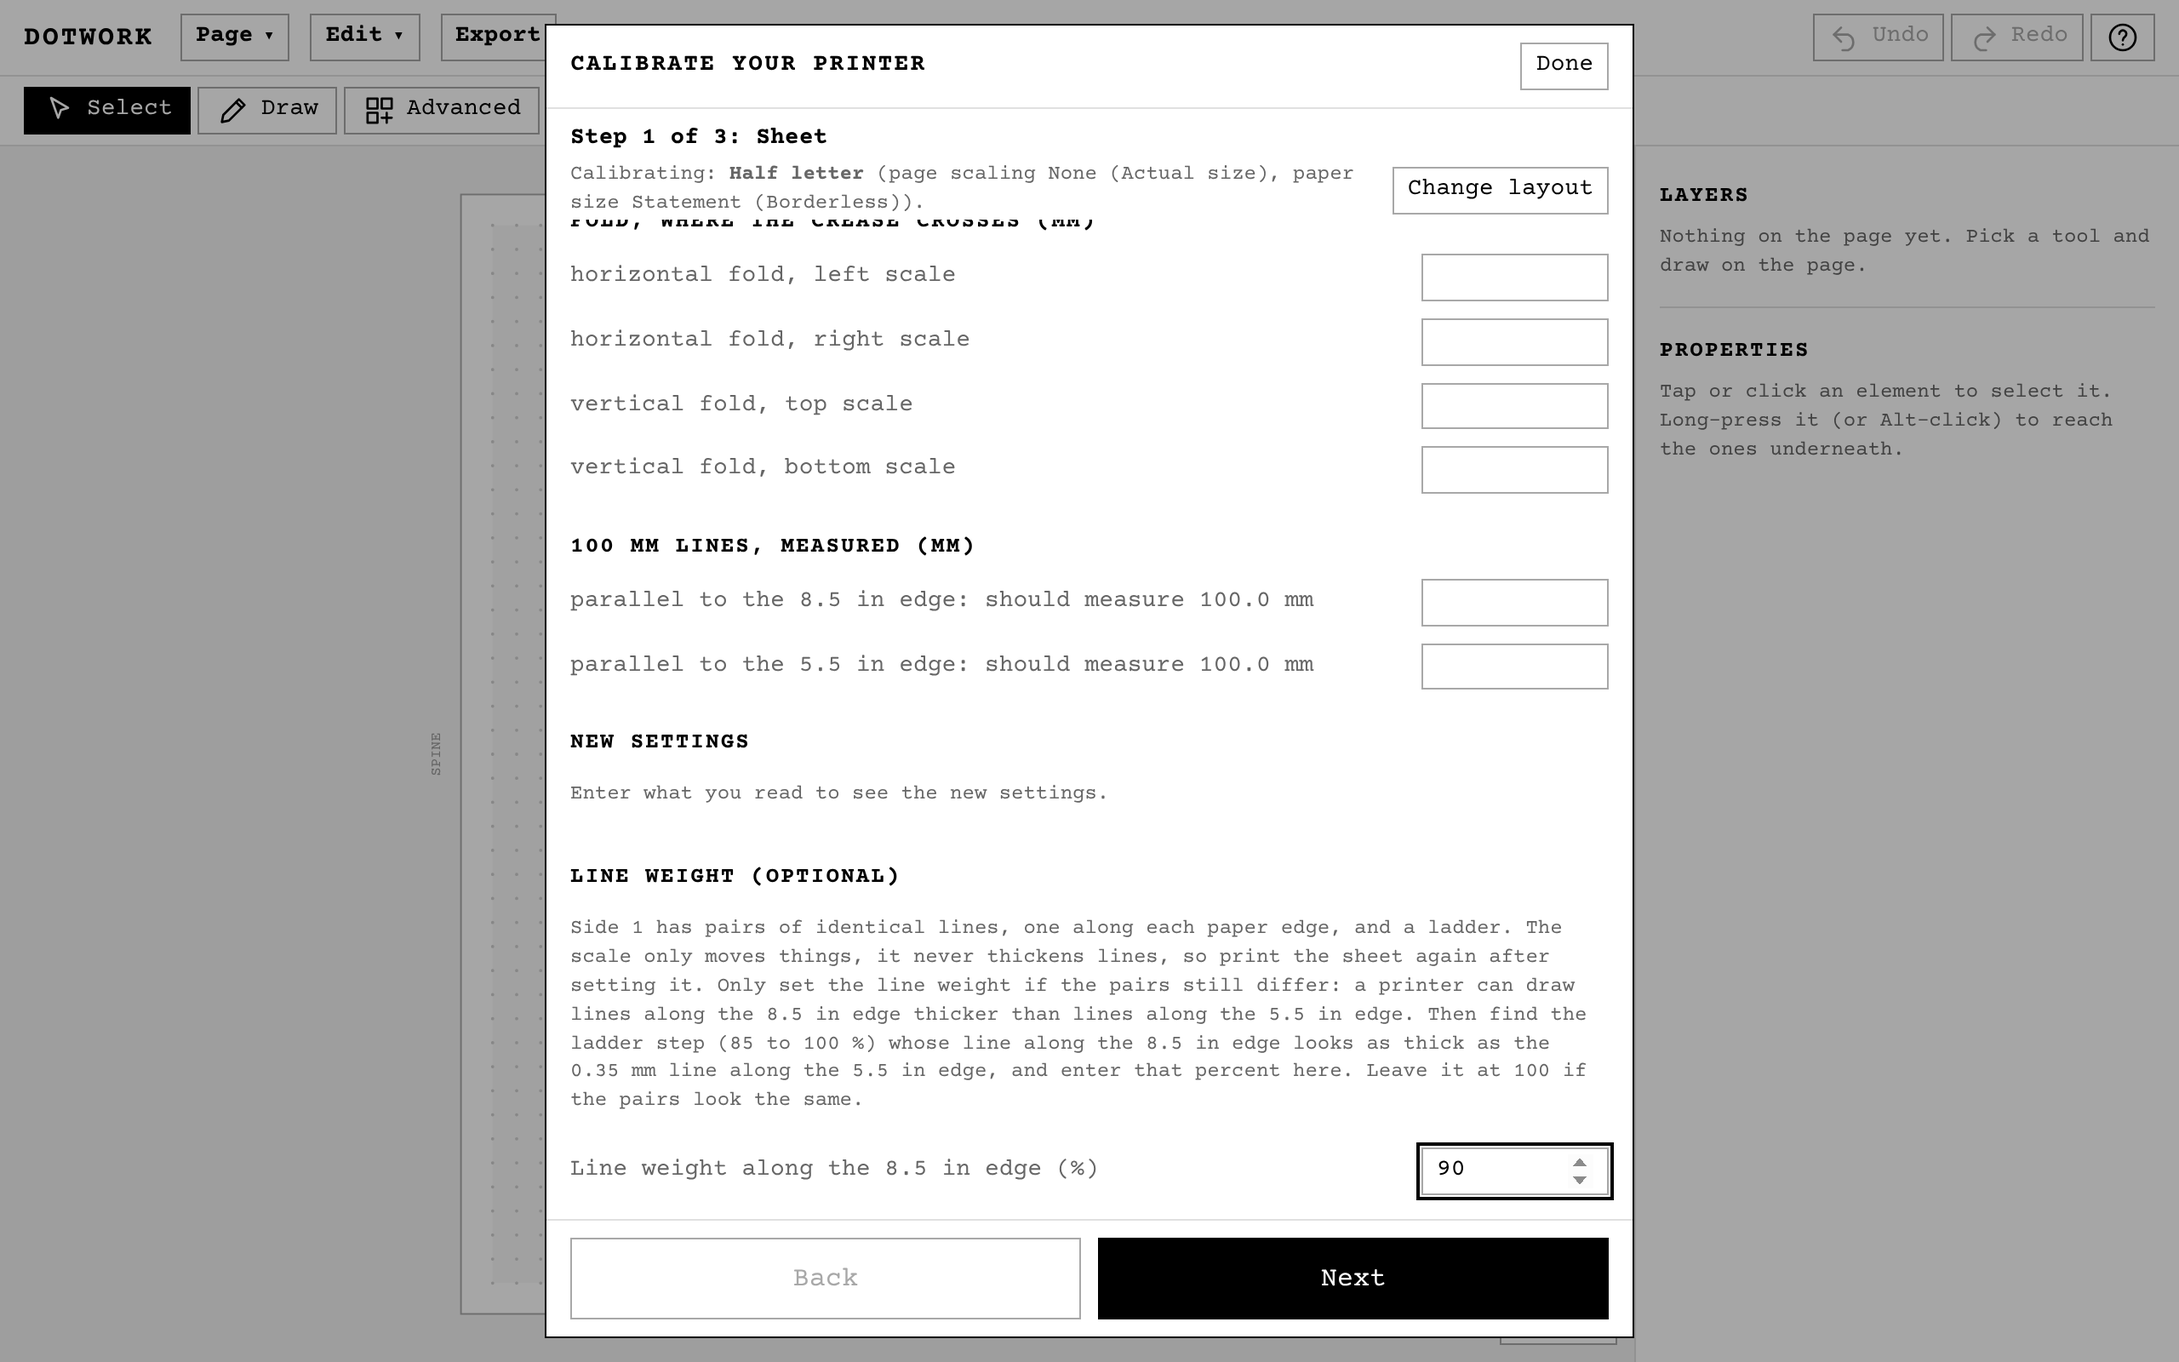
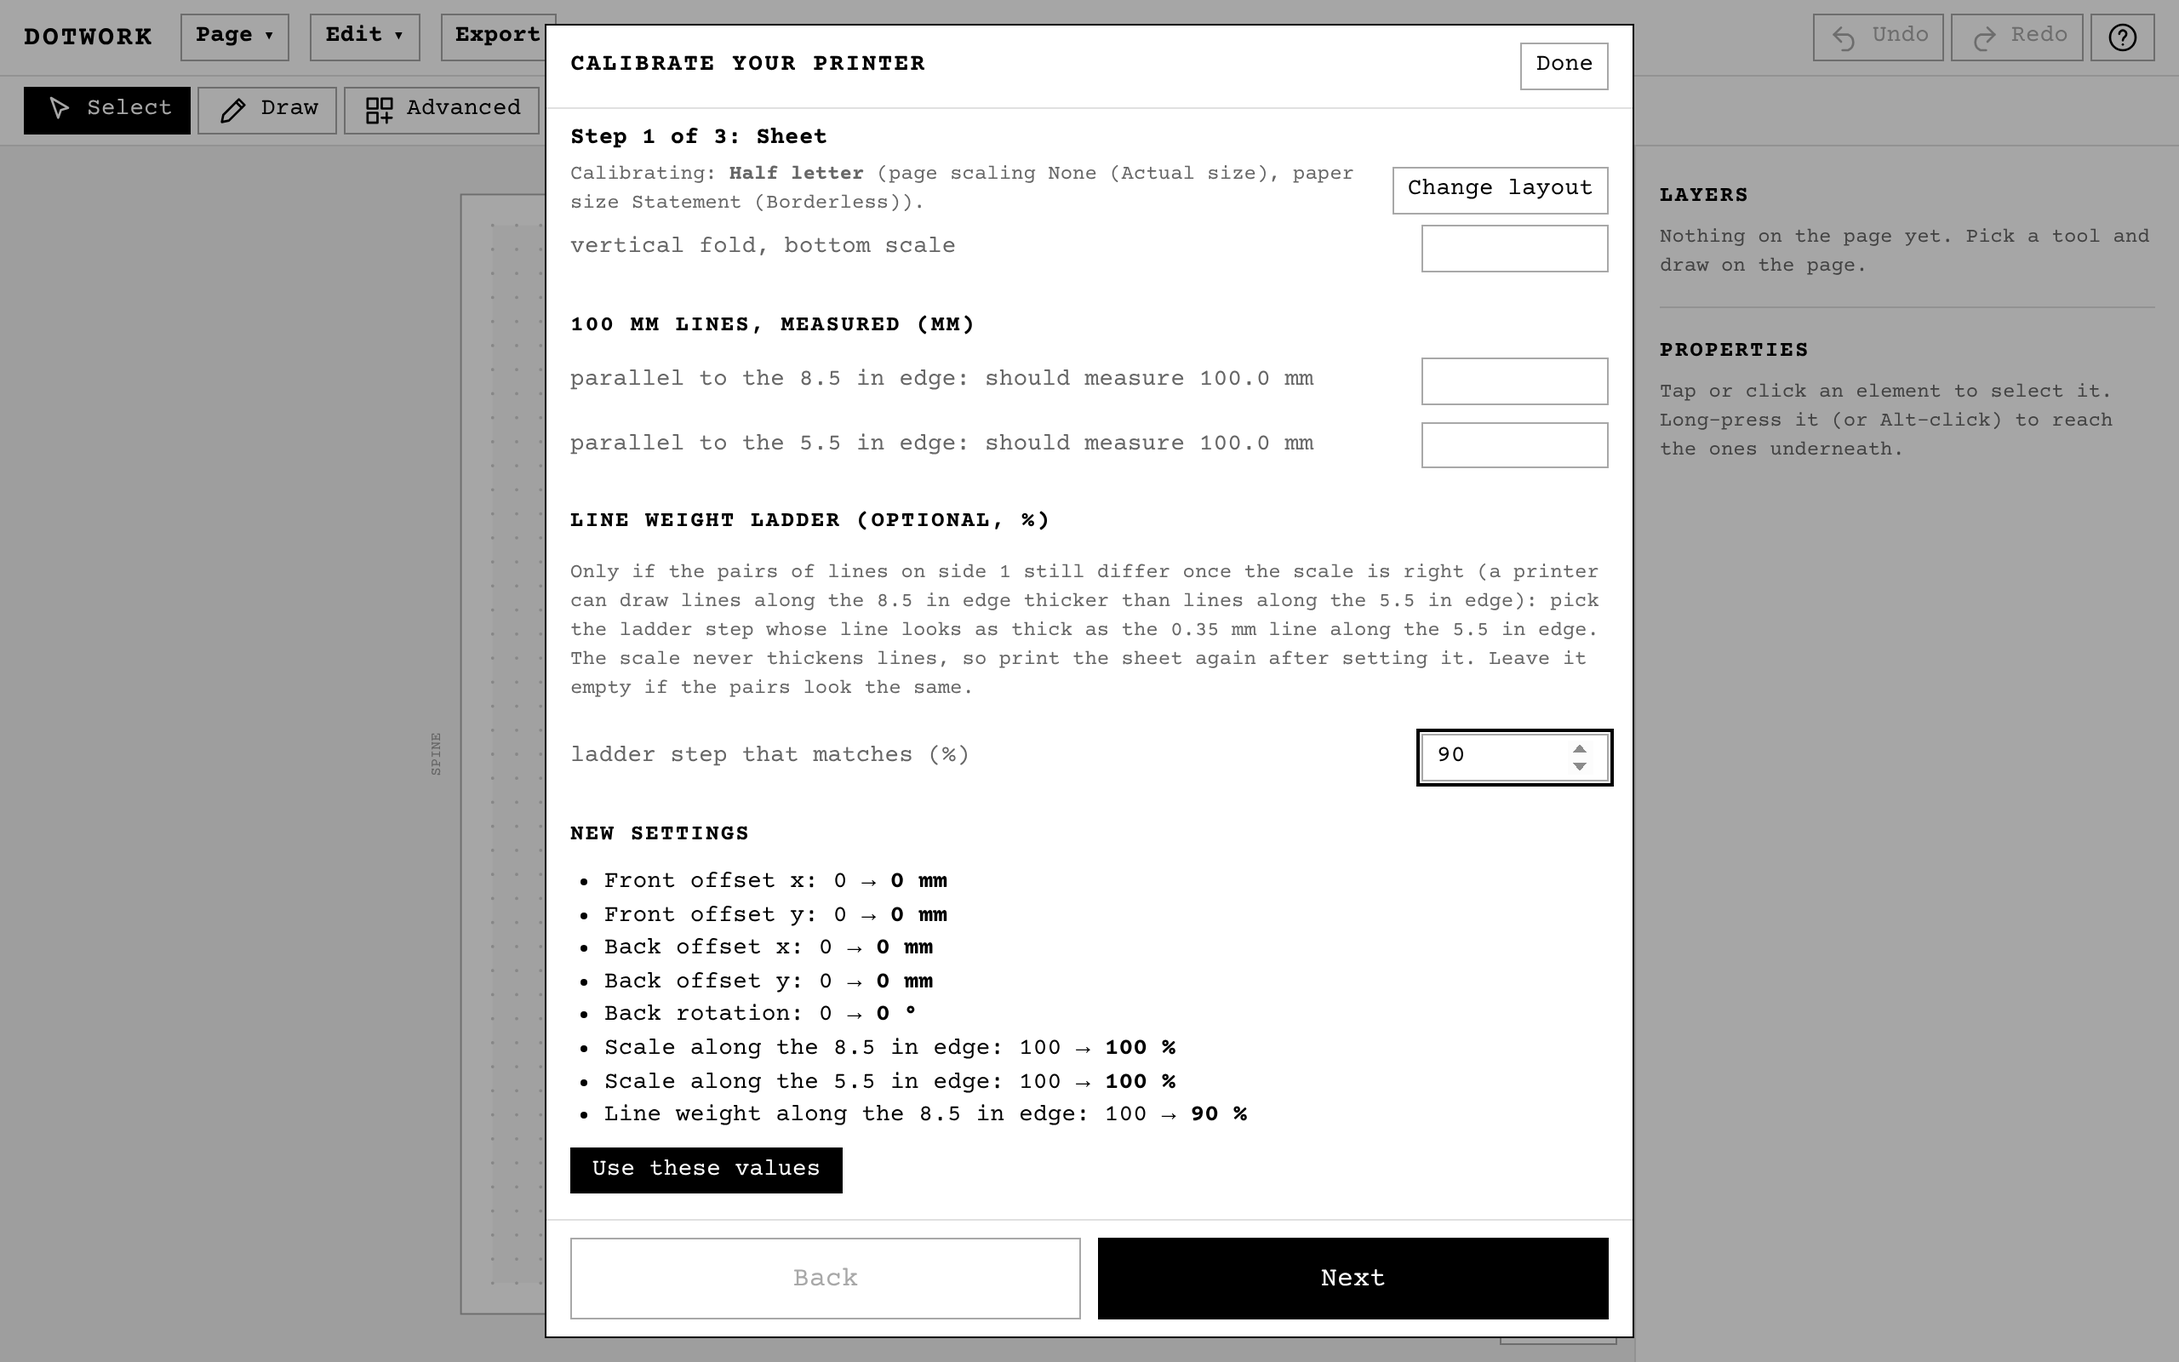
Line weight is a Calibrate reading: ladder step box, shown in New settings with the Use button
Claude-Session: https://claude.ai/code/session_01UkUH4WM8r61MiLMkZLeq93

diff --git a/src/calibrate.ts b/src/calibrate.ts
@@ -27,12 +27,12 @@ const STEPS = ['Sheet', 'Creep and cover', 'Check'] as const;
 /** What the sheet step changes, by name. */
 const RESULTS: [keyof LayoutProfile, string, string][] = [
   ['front_offset_x_mm', 'Front offset x', 'mm'], ['front_offset_y_mm', 'Front offset y', 'mm'], ['back_offset_x_mm', 'Back offset x', 'mm'], ['back_offset_y_mm', 'Back offset y', 'mm'],
-  ['back_rotation_deg', 'Back rotation', '°'], ['scale_x_pct', 'Scale along the first edge', '%'], ['scale_y_pct', 'Scale along the second edge', '%'],
+  ['back_rotation_deg', 'Back rotation', '°'], ['scale_x_pct', 'Scale along the first edge', '%'], ['scale_y_pct', 'Scale along the second edge', '%'], ['line_weight_x_pct', 'Line weight along the first edge', '%'],
 ];
 
 /** The sheet step's readings, as typed. */
 type SheetFields = { [K in keyof SheetReadings]: string };
-const EMPTY_SHEET: SheetFields = { topX: '', bottomX: '', leftY: '', rightY: '', hFoldLeft: '', hFoldRight: '', vFoldTop: '', vFoldBottom: '', longX: '', longY: '' };
+const EMPTY_SHEET: SheetFields = { topX: '', bottomX: '', leftY: '', rightY: '', hFoldLeft: '', hFoldRight: '', vFoldTop: '', vFoldBottom: '', longX: '', longY: '', ladder: '' };
 
 /** The page count, creep, shifts and target a creep test was printed with, as typed. */
 type TestPrinted = { pages: string; creep: string; shift: string; coverShift: string; target: string };
@@ -208,7 +208,7 @@ export class CalibrateDialog {
       const next = sheetResult(layout, printed, r);
       const edges = EDGE_NAMES[layout];
       const rows = RESULTS.map(([k, name, unit]) => {
-        const label = k === 'scale_x_pct' ? `Scale along the ${edges.x} edge` : k === 'scale_y_pct' ? `Scale along the ${edges.y} edge` : name;
+        const label = k === 'line_weight_x_pct' ? `Line weight along the ${edges.x} edge` : k === 'scale_x_pct' ? `Scale along the ${edges.x} edge` : k === 'scale_y_pct' ? `Scale along the ${edges.y} edge` : name;
         const show = k === 'back_rotation_deg' ? (v: number) => `${Math.round(v * 1000) / 1000}` : mm; // a degree is fine, so the rotation shows its third decimal
         return h('li', {}, `${label}: ${show(now[k])} → `, h('strong', {}, `${show(next[k])} ${unit}`));
       });
@@ -240,11 +240,11 @@ export class CalibrateDialog {
       twist,
       h('h3', {}, '100 mm lines, measured (mm)'),
       r('longX', cap.longX, 'calibrate-read-line-x'), r('longY', cap.longY, 'calibrate-read-line-y'),
+      h('h3', {}, 'Line weight ladder (optional, %)'),
+      h('p', { class: 'hint' }, `Only if the pairs of lines on side 1 still differ once the scale is right (a printer can draw lines along the ${EDGE_NAMES[layout].x} edge thicker than lines along the ${EDGE_NAMES[layout].y} edge): pick the ladder step whose line looks as thick as the 0.35 mm line along the ${EDGE_NAMES[layout].y} edge. The scale never thickens lines, so print the sheet again after setting it. Leave it empty if the pairs look the same.`),
+      r('ladder', `ladder step that matches (%)`, 'calibrate-read-ladder'),
       h('h3', {}, 'New settings'),
       result,
-      h('h3', {}, 'Line weight (optional)'),
-      h('p', { class: 'hint' }, `Side 1 has pairs of identical lines, one along each paper edge, and a ladder. The scale only moves things, it never thickens lines, so print the sheet again after setting it. Only set the line weight if the pairs still differ: a printer can draw lines along the ${EDGE_NAMES[layout].x} edge thicker than lines along the ${EDGE_NAMES[layout].y} edge. Then find the ladder step (85 to 100 %) whose line along the ${EDGE_NAMES[layout].x} edge looks as thick as the 0.35 mm line along the ${EDGE_NAMES[layout].y} edge, and enter that percent here. Leave it at 100 if the pairs look the same.`),
-      this.field('line_weight_x_pct'),
     ];
   }
 

diff --git a/tests/e2e/calibrate.e2e.ts b/tests/e2e/calibrate.e2e.ts
@@ -335,22 +335,24 @@ for (const device of ['phone', 'tablet', 'desktop'] as const) {
       expect(await missingHelp(app)).toEqual([]);
     });
 
-    it('explains the line weight, and keeps it as the printer’s setting of the selected layout, never in the book', async () => {
+    it('takes the ladder step as a reading, shows the line weight in New settings, and keeps it as the selected layout’s printer setting, never in the book', async () => {
       const app = await open(env, device);
       await startFlat(app);
       await openCalibrate(app);
       const text = await app.page.locator('dialog.calibrate').innerText();
-      expect(text).toMatch(/Only set the line weight if the pairs still differ/);
+      expect(text).toMatch(/pairs of lines on side 1 still differ/);
       expect(text).toMatch(/never thickens lines/);
-      await app.page.locator('dialog.calibrate [data-key="book-line-weight"]').scrollIntoViewIfNeeded();
-      expect(await app.page.locator('dialog.calibrate [data-key="book-line-weight"]').inputValue()).toBe('100');
-      await set(app, 'calibrate', 'book-line-weight', '90');
+      await set(app, 'calibrate', 'calibrate-read-ladder', '90');
+      const result = await app.page.locator('[data-key="calibrate-sheet-result"]').innerText();
+      expect(result).toContain('Line weight along the 8.5 in edge: 100 → 90 %');
+      await app.page.locator('[data-key="calibrate-use-sheet"]').scrollIntoViewIfNeeded();
+      await shot(app, `${device}-calibrate-line-weight`);
+      await hit(app, 'dialog.calibrate [data-key="calibrate-use-sheet"]');
       expect((await profile(app)).layouts.half_letter.line_weight_x_pct).toBe(90);
       expect((await profile(app)).layouts.letter_two_up.line_weight_x_pct ?? 100).toBe(100);
-      await shot(app, `${device}-calibrate-line-weight`);
-      await set(app, 'calibrate', 'book-line-weight', '500'); // brought back inside its limits
-      expect((await profile(app)).layouts.half_letter.line_weight_x_pct).toBe(120);
       expect(await bookDraft(app)).toBe(BOOK);
+      await set(app, 'calibrate', 'calibrate-read-ladder', '500'); // brought back inside its limits
+      expect(await app.page.locator('[data-key="calibrate-sheet-result"]').innerText()).toContain('→ 120 %');
       if (app.touch) expect(await small(app)).toEqual([]);
       expect(await noOverflow(app)).toBe(true);
       expect(await missingHelp(app)).toEqual([]);

diff --git a/src/help.ts b/src/help.ts
@@ -249,6 +249,7 @@ export const HELP: Record<string, HelpEntry> = {
   'calibrate-read-line-y': e('100 mm line parallel to the other edge (mm)', 'The length you measured with a ruler for the 100 mm line parallel to the 5.5 in edge (the 11 in edge on a two-up sheet), tick to tick. The scale along that edge is set from it.', 'Tap, type the number, then tap Done.', 'Click and type the number.'),
   'book-line-weight': e('Line weight along the 8.5 in edge', 'How thick lines along the 8.5 in edge print, as a percent of their drawn width (80 to 120; dots and letters never change). Leave it at 100 unless the calibration sheet’s line pairs still differ: then enter the matching ladder step.', 'Tap, type a number, then tap Done.', 'Click and type a number, then press Enter.'),
   'calibrate-fold-twist': e('Twist against the paper', 'The difference between the two readings of a fold pair, and the distance between their scales: how far the print is turned against the paper’s own fold. Information only; no setting changes.', 'Shown when both readings of a pair are typed.', 'Shown when both readings of a pair are typed.'),
+  'calibrate-read-ladder': e('Ladder step that matches (%)', 'The percent (85, 90, 95 or 100) of the ladder line along the 8.5 in edge that looks as thick as the 0.35 mm line along the other edge. It becomes the line weight in New settings; leave it empty if the pairs look the same.', 'Tap, type the number, then tap Done.', 'Click and type the number.'),
   'book-back-rotation': e('Back rotation', 'Turns everything printed second about the sheet’s centre, in degrees from −1.5 to 1.5: + is counter-clockwise as seen on the back. Calibrate finds it from the see-through readings. It belongs to the sheet layout chosen above.', 'Tap, type a number, then tap Done.', 'Click and type a number, then press Enter.'),
   'calibrate-open': e('Calibrate your printer', 'Opens the Calibrate wizard: three steps and test sheets that find your printer’s offsets, rotation, scale, creep, fore-edge shifts and tones for the sheet layout, and keep them as your printer’s settings.', 'Tap to open the wizard. Done brings you back here.', 'Click to open the wizard. Done brings you back here.'),
   'calibrate-back': e('Back', 'Goes to the step before this one in the Calibrate wizard. What you typed is kept.', 'Tap to go back a step.', 'Click to go back a step.'),

diff --git a/src/book/alignment.ts b/src/book/alignment.ts
@@ -106,8 +106,10 @@ export interface SheetReadings {
   hFoldLeft: number | null; hFoldRight: number | null; vFoldTop: number | null; vFoldBottom: number | null;
   /** The two 100 mm lines, measured with a ruler, mm: parallel to the 8.5 in edge, and to the other. */
   longX: number | null; longY: number | null;
+  /** The ladder step (percent of 0.35 mm) whose line along the 8.5 in edge looks as thick as the 0.35 mm line along the other edge. The ladder is exempt from the line weight setting, so this is the setting itself. */
+  ladder: number | null;
 }
-export const NO_READINGS: SheetReadings = { topX: null, bottomX: null, leftY: null, rightY: null, hFoldLeft: null, hFoldRight: null, vFoldTop: null, vFoldBottom: null, longX: null, longY: null };
+export const NO_READINGS: SheetReadings = { topX: null, bottomX: null, leftY: null, rightY: null, hFoldLeft: null, hFoldRight: null, vFoldTop: null, vFoldBottom: null, longX: null, longY: null, ladder: null };
 
 const known = (v: number | null): v is number => v !== null;
 const mean = (v: number[]) => v.reduce((a, b) => a + b, 0) / v.length;
@@ -190,5 +192,6 @@ export function sheetResult(layout: SheetLayout, printed: LayoutProfile, r: Shee
   if (rb.y !== null && dy !== null) next.front_offset_y_mm = within(round(printed.front_offset_y_mm - dy - rb.y), 'front_offset_y_mm');
   next.scale_x_pct = scaleFromReading(printed.scale_x_pct, printed.scale_x_pct, r.longX, LINE_MM);
   next.scale_y_pct = scaleFromReading(printed.scale_y_pct, printed.scale_y_pct, r.longY, LINE_MM);
+  if (known(r.ladder)) next.line_weight_x_pct = within(round(r.ladder), 'line_weight_x_pct');
   return next;
 }

diff --git a/tests/alignment.test.ts b/tests/alignment.test.ts
@@ -179,3 +179,12 @@ describe('the twist against the paper', () => {
     expect(foldTwist(NO_READINGS)).toEqual({ horizontal: null, vertical: null });
   });
 });
+
+describe('the line weight from the ladder', () => {
+  it('is the picked step itself, kept within 80 to 120, and unchanged when no step was picked', () => {
+    const printed = { ...ZERO, line_weight_x_pct: 100 };
+    expect(sheetResult('half_letter', printed, { ...NO_READINGS, ladder: 90 }).line_weight_x_pct).toBe(90);
+    expect(sheetResult('half_letter', printed, { ...NO_READINGS, ladder: 500 }).line_weight_x_pct).toBe(120);
+    expect(sheetResult('half_letter', { ...printed, line_weight_x_pct: 95 }, NO_READINGS).line_weight_x_pct).toBe(95);
+  });
+});

diff --git a/docs/book-format.md b/docs/book-format.md
@@ -194,7 +194,7 @@ The Calibrate wizard (Export, PDF tab, **Calibrate your printer…**) builds the
 
 **The calibration sheet.** The layout is the same for both sheet layouts and uses the whole paper: *W* × *H* is 215.9 × 139.7 mm for half letter and 215.9 × 279.4 mm for two-up, and *m* = 8.0 mm. Five marks: top (*W*/2, *m*), bottom (*W*/2, *H* − *m*), left (*m*, *H*/2), right (*W* − *m*, *H*/2) and the centre (*W*/2, *H*/2). Everything stays at least 3 mm from every paper edge, so it prints without borderless.
 
-- *Side 1 (printed first)*: a fine **+** (0.2 mm lines, 6 mm across) at all five marks, and in the space at least 10 mm from every mark the gray ramp from 0 to 100% in 5% steps (each with text in that gray), the three shade tones and the gray text as they print now, small and large dots, hair, thin and thick ruled lines, a hairline weight strip (0.05 to 0.30 mm), **line weight by direction** and the settings footer. Line weight by direction is a block on the left page's right-hand side: *pairs* of identical lines at 0.12, 0.25 and 0.35 mm, each pair one line along the 8.5 in edge (11 mm) and one along the other edge (8 mm), labelled with the width and the edge names (a printer that draws one direction thicker shows as a difference within a pair); and a *ladder* of four lines along the 8.5 in edge at 85, 90, 95 and 100 % of 0.35 mm, labelled, beside a 0.35 mm line along the other edge. The pairs are drawn under the line weight setting (they show what it does); the ladder is exempt from it, so its steps are the same whatever the setting is. To set `line_weight_x_pct`: only if the pairs still differ after the scale is right, pick the ladder step that looks as thick as the 0.35 mm line along the other edge and enter its percent. No scales. The marks are symmetric about the sheet's centre, so each shows through the paper (the sheet turned over, left and right swapped) at the place of its mirror image.
+- *Side 1 (printed first)*: a fine **+** (0.2 mm lines, 6 mm across) at all five marks, and in the space at least 10 mm from every mark the gray ramp from 0 to 100% in 5% steps (each with text in that gray), the three shade tones and the gray text as they print now, small and large dots, hair, thin and thick ruled lines, a hairline weight strip (0.05 to 0.30 mm), **line weight by direction** and the settings footer. Line weight by direction is a block on the left page's right-hand side: *pairs* of identical lines at 0.12, 0.25 and 0.35 mm, each pair one line along the 8.5 in edge (11 mm) and one along the other edge (8 mm), labelled with the width and the edge names (a printer that draws one direction thicker shows as a difference within a pair); and a *ladder* of four lines along the 8.5 in edge at 85, 90, 95 and 100 % of 0.35 mm, labelled, beside a 0.35 mm line along the other edge. The pairs are drawn under the line weight setting (they show what it does); the ladder is exempt from it, so its steps are the same whatever the setting is. To set `line_weight_x_pct`: only if the pairs still differ after the scale is right, pick the ladder step that looks as thick as the 0.35 mm line along the other edge and type it in the wizard's "ladder step" box: it appears in New settings like every other reading, with the same Use button. No scales. The marks are symmetric about the sheet's centre, so each shows through the paper (the sheet turned over, left and right swapped) at the place of its mirror image.
 - *Side 2 (the measuring side)*: every label reads as seen on side 2, and names directions as seen on side 2. At each of the four edge marks, a **see-through scale** centred on where side 1's + should land (−5 to +5 mm, a tick every 0.5 mm, numbers in two rows), running parallel to the edge it is at (so top and bottom read x, left and right read y). At the centre, a **+** only, a quick look-through check. Four **fold scales**, two across each centre line, 38 mm (at least 25) from the centre +: the two across the horizontal line (*y* = *H*/2, at *x* = *W*/2 ∓ 38) run up the sheet, the two across the vertical line (*x* = *W*/2, at *y* = *H*/2 ∓ 38) run to the right; each is −5 to +5 mm, a tick every 0.5 mm, the 0 longer, labelled, with its caption: "horizontal fold, left scale", "horizontal fold, right scale", "vertical fold, top scale", "vertical fold, bottom scale".  Two **100.0 mm lines** with end ticks in clear space, at least 10 mm from every mark: "parallel to the 8.5 in edge: should measure 100.0 mm" and "parallel to the 5.5 in edge" (the 11 in edge for two-up), and short instructions.
 - *Names*: the sheet and the wizard name the paper's edges of the selected layout, never "across" or "down": half letter has an 8.5 in edge (top and bottom) and a 5.5 in edge (left and right); two-up an 8.5 in edge and an 11 in edge. The captions and the wizard's inputs use the same words: "see-through top x", "see-through bottom x", "see-through left y", "see-through right y", the four fold scales above, and the two 100 mm lines.
 
